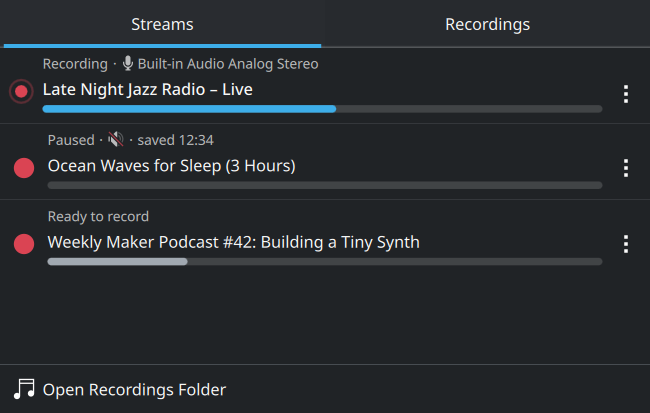
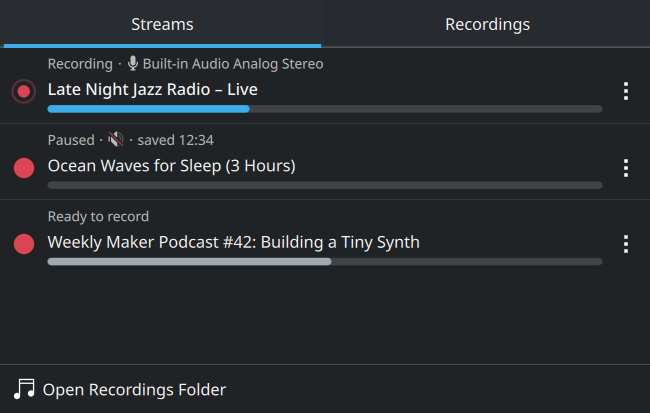
widget: the record button's slot doesn't shrink while recording
The slot took the button's implicit size, which loses the icon while
the ring (or the spinner) is drawn instead: the recording row's icon and
title sat a few pixels left of the others. Sized from the icon size and
padding now; the README screenshot is retaken.

diff --git a/plasmoid/contents/ui/ItemRow.qml b/plasmoid/contents/ui/ItemRow.qml
@@ -45,8 +45,9 @@ Item {
 
     // Buttons have padding around their icons: shift them up by it, so the icons'
     // tops line up with the top of the title.
-    readonly property real buttonShift: -Math.max(0, (toggleButton.implicitHeight
-                                                      - Kirigami.Units.iconSizes.smallMedium) / 2)
+    // (Not from the button's implicit height: it has no icon while recording.)
+    readonly property real buttonShift: -Math.max(0, (toggleButton.topPadding
+                                                      + toggleButton.bottomPadding) / 2)
     implicitWidth: column.implicitWidth
 
     function mmss(sec) {
@@ -210,8 +211,12 @@ Item {
                 id: lead
                 Layout.alignment: Qt.AlignTop
                 Layout.topMargin: row.buttonShift
-                implicitWidth: toggleButton.implicitWidth
-                implicitHeight: toggleButton.implicitHeight
+                // from the icon size, not the button's implicit size: that shrinks when
+                // the button has no icon (recording: the ring is drawn; toggling: spinner)
+                implicitWidth: Kirigami.Units.iconSizes.smallMedium
+                    + toggleButton.leftPadding + toggleButton.rightPadding
+                implicitHeight: Kirigami.Units.iconSizes.smallMedium
+                    + toggleButton.topPadding + toggleButton.bottomPadding
 
                 PlasmaComponents3.ToolButton {
                     id: toggleButton
